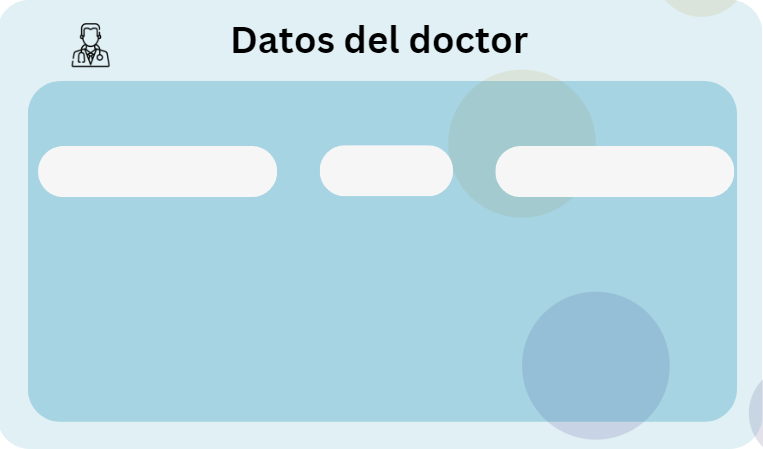
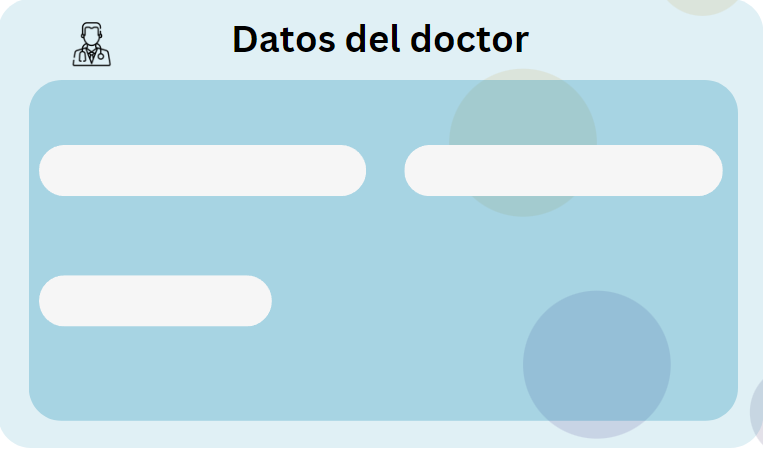
Funcionalidad crear doctor agregada

diff --git a/dentiapp/src/dentiapp/CrearDoctorDialog.java b/dentiapp/src/dentiapp/CrearDoctorDialog.java
@@ -9,6 +9,7 @@ import javax.swing.JPanel;
 import javax.swing.border.EmptyBorder;
 import javax.swing.border.MatteBorder;
 import javax.swing.JLabel;
+import javax.swing.JOptionPane;
 import javax.swing.AbstractButton;
 import javax.swing.DefaultComboBoxModel;
 import javax.swing.ImageIcon;
@@ -27,7 +28,7 @@ public class CrearDoctorDialog extends JDialog {
 	private final JPanel contentPanel = new JPanel();
 	private ConexionMySQL cn = new ConexionMySQL();
 	private JTextField txtNombre;
-	private JTextField txtID;
+	private JTextField txtDNI;
 	private DefaultComboBoxModel modeloEspecialidades = new DefaultComboBoxModel();
 	private ArrayList<Especialidad> listaEspecialidades = new ArrayList<Especialidad>();
 
@@ -66,9 +67,9 @@ public class CrearDoctorDialog extends JDialog {
 			contentPanel.add(btnCancelar);
 		}
 		{
-			JLabel lblDoctorId = new JLabel("ID");
+			JLabel lblDoctorId = new JLabel("DNI");
 			lblDoctorId.setFont(new Font("SansSerif", Font.PLAIN, 18));
-			lblDoctorId.setBounds(323, 123, 46, 14);
+			lblDoctorId.setBounds(39, 253, 46, 14);
 			contentPanel.add(lblDoctorId);
 		}
 		{
@@ -86,27 +87,32 @@ public class CrearDoctorDialog extends JDialog {
 
 		txtNombre = new JTextField();
 		txtNombre.setBorder(new MatteBorder(0, 0, 1, 0, (Color) new Color(0, 0, 0)));
-		txtNombre.setBounds(55, 152, 206, 41);
+		txtNombre.setBounds(55, 152, 293, 41);
 		txtNombre.setBackground(new Color(246, 246, 246));
 		contentPanel.add(txtNombre);
 		txtNombre.setColumns(10);
 
-		txtID = new JTextField();
-		txtID.setBorder(new MatteBorder(0, 0, 1, 0, (Color) new Color(0, 0, 0)));
-		txtID.setBackground(new Color(246, 246, 246));
-		txtID.setBounds(356, 152, 63, 41);
-		contentPanel.add(txtID);
-		txtID.setColumns(10);
+		txtDNI = new JTextField();
+		txtDNI.setBorder(new MatteBorder(0, 0, 1, 0, (Color) new Color(0, 0, 0)));
+		txtDNI.setBackground(new Color(246, 246, 246));
+		txtDNI.setBounds(55, 280, 199, 41);
+		contentPanel.add(txtDNI);
+		txtDNI.setColumns(10);
 
 		JComboBox comboEspecialidades = new JComboBox();
-		comboEspecialidades.setBounds(513, 152, 206, 41);
+		comboEspecialidades.setBounds(426, 152, 279, 41);
 
 		contentPanel.add(comboEspecialidades);
 		{
 			JButton btnCrear = new JButton("Crear");
 			btnCrear.addActionListener(new ActionListener() {
 				public void actionPerformed(ActionEvent e) {
-					crearDoctor(comboEspecialidades);
+					try {
+						crearDoctor(comboEspecialidades);
+					} catch (SQLException e1) {
+						// TODO Auto-generated catch block
+						e1.printStackTrace();
+					}
 					dispose();
 				}
 			});
@@ -129,14 +135,18 @@ public class CrearDoctorDialog extends JDialog {
 
 	}
 
+	@SuppressWarnings({"unused" })
 	private void crearDoctor(JComboBox comboEspecialidades) throws SQLException {
 		cn.conectar();
 
 		String nombre = txtNombre.getText();
-		int id = Integer.parseInt(txtID.getText());
+		String dni = txtDNI.getText();
 		String especialidad = comboEspecialidades.getSelectedItem().toString();
 		int idEspecialidad = obtenerIdEspecialidad(especialidad);
 		
+		String consulta = "INSERT INTO doctor VALUES (0,'"+dni+"',"+idEspecialidad+",'"+nombre+"');";
+		cn.ejecutarInsertDeleteUpdate(consulta);
+		JOptionPane.showMessageDialog(null, "Doctor agregado con éxito", "Doctor agregado", JOptionPane.OK_OPTION);
 	}
 
 	private void rellenarListaEspecialidades() throws SQLException {
@@ -170,7 +180,7 @@ public class CrearDoctorDialog extends JDialog {
 		int id = 0;
 
 		// Consulta a ejecutar
-		String consulta = "SELECT id FROM especialidad WHERE nombre = '"+especialidad+"';";
+		String consulta = "SELECT idespecialidad FROM especialidad WHERE nombre = '"+especialidad+"';";
 		ResultSet rset = cn.ejecutarSelect(consulta);
 		
 		if(rset.next()) {

diff --git a/dentiapp/src/dentiapp/adminFrame.java b/dentiapp/src/dentiapp/adminFrame.java
@@ -137,6 +137,20 @@ public class adminFrame extends JFrame {
 		btnBorrarDoctor.setForeground(Color.WHITE);
 		
 		JButton btnCrearDoctor = new JButton("CREAR");
+		btnCrearDoctor.addActionListener(new ActionListener() {
+			public void actionPerformed(ActionEvent e) {
+				CrearDoctorDialog dialDoctor;
+				try {
+					dialDoctor = new CrearDoctorDialog();
+					dialDoctor.setModal(true);
+					dialDoctor.setVisible(true);
+				} catch (SQLException e1) {
+					// TODO Auto-generated catch block
+					e1.printStackTrace();
+				}
+				
+			}
+		});
 		btnCrearDoctor.setFont(new Font("SansSerif", Font.PLAIN, 10));
 		btnCrearDoctor.setBounds(531, 457, 85, 21);
 		contentPane.add(btnCrearDoctor);

diff --git a/dentiapp/src/dentiapp/loginFrame.java b/dentiapp/src/dentiapp/loginFrame.java
@@ -66,7 +66,7 @@ public class loginFrame extends JFrame {
 					String pass = String.valueOf(txtPass.getPassword());
 					
 					//Consulta a ejecutar
-					String consulta = "SELECT rol FROM usuario WHERE nombre = '" + user + "' AND pass = '"+ pass + "';";
+					String consulta = "SELECT rol FROM usuario WHERE idusuario = '" + user + "' AND pass = '"+ pass + "';";
 					ResultSet rset = cn.ejecutarSelect(consulta);
 					
 					//Comprobamos si existen resultados, si no hay error y el tipo de rol de usuario
